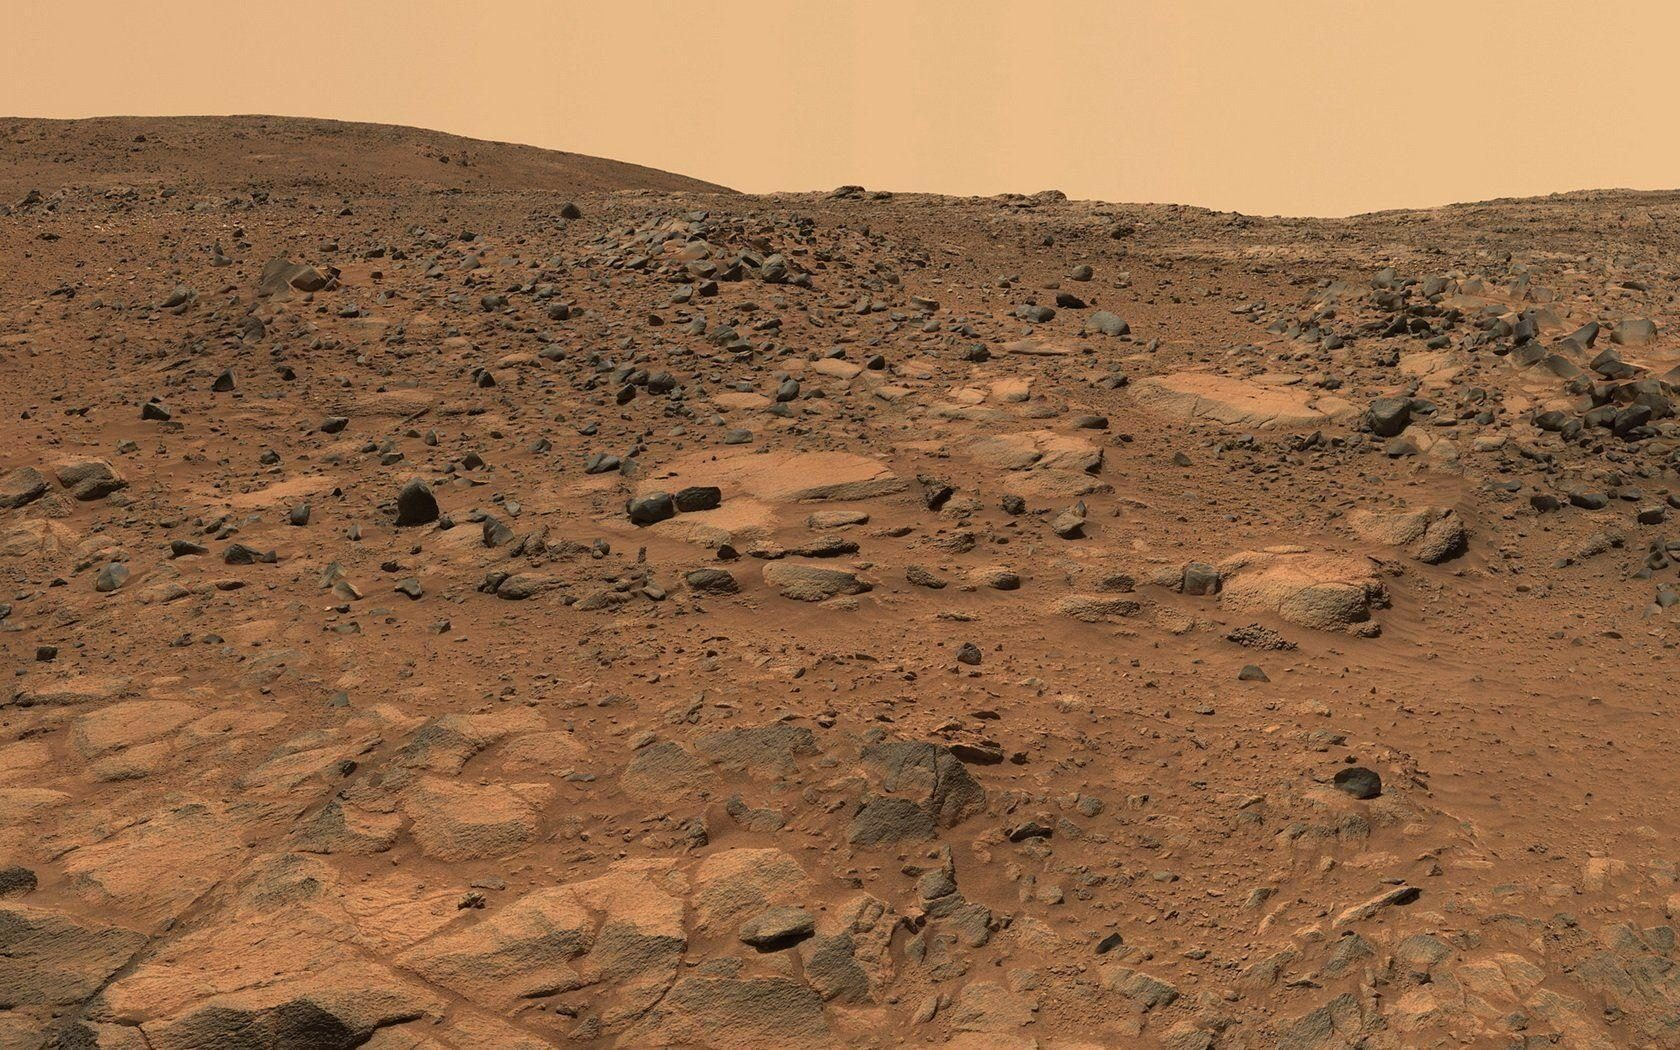
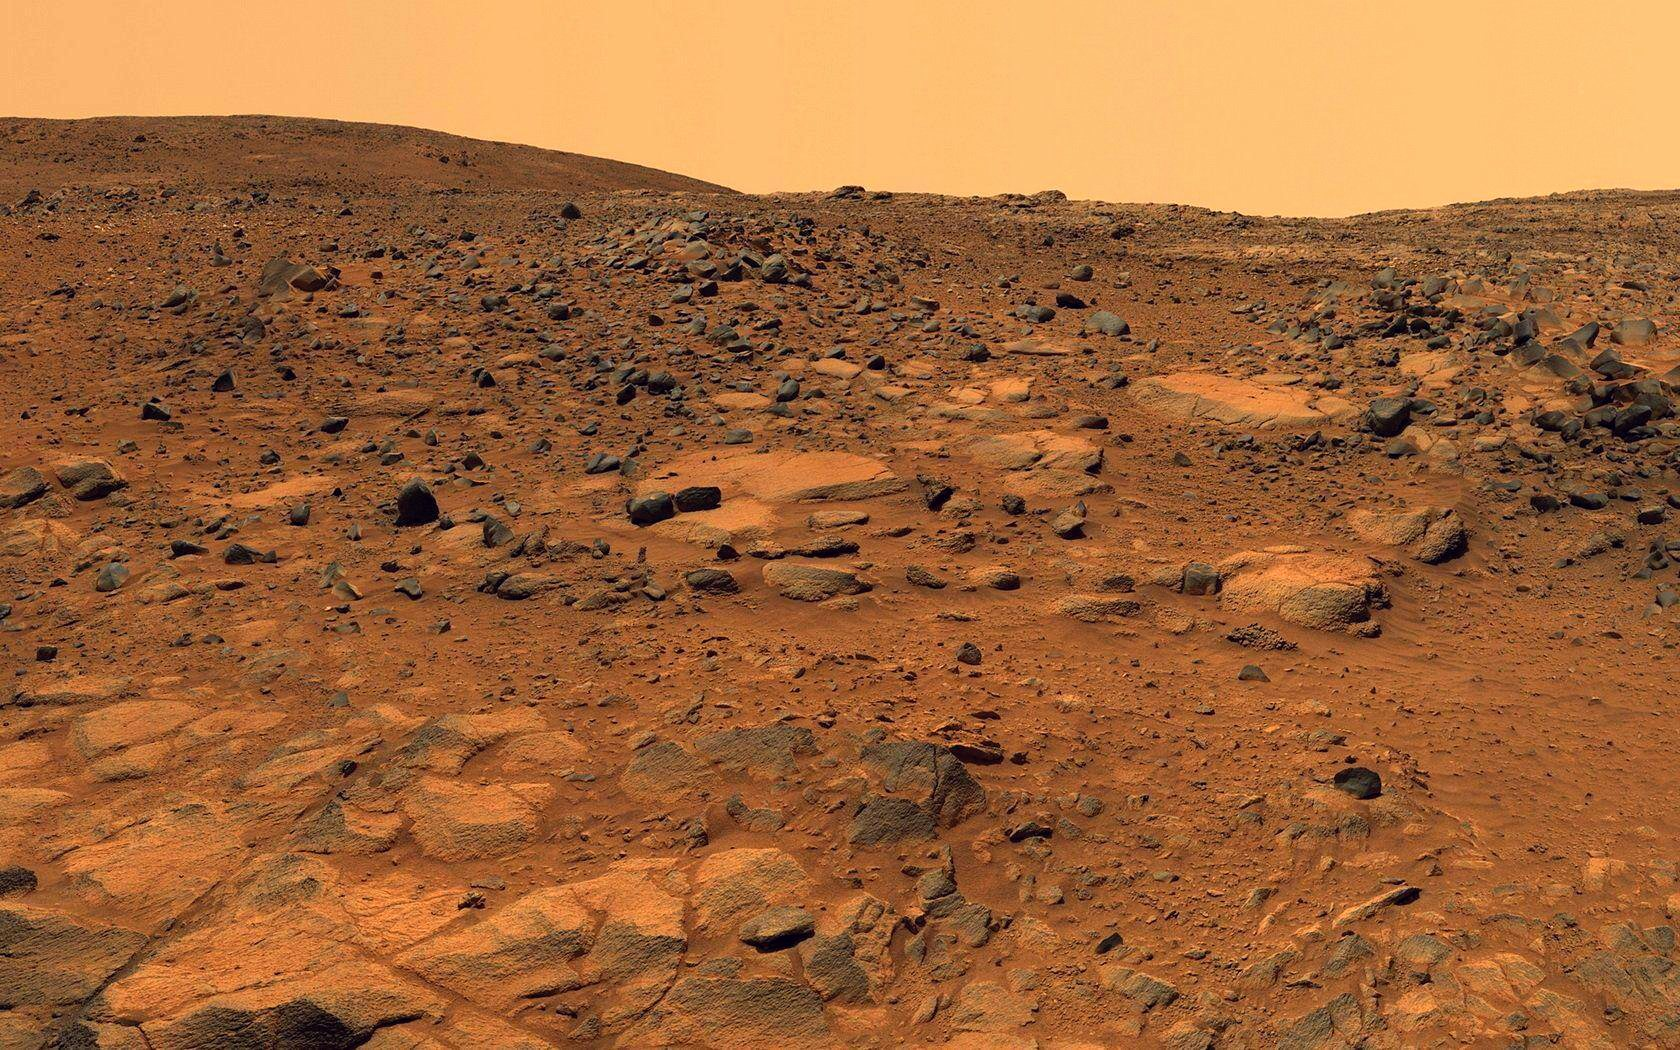
New typography system and a cooler, more vivid palette
Claude-Session: https://claude.ai/code/session_016kjMuUkgP8q2RCDEfRdovg

diff --git a/index.html b/index.html
@@ -15,33 +15,39 @@
 <meta name="claude:viewport-fit-sides" content="cover">
 <link rel="preconnect" href="https://fonts.googleapis.com">
 <link rel="preconnect" href="https://fonts.gstatic.com" crossorigin>
-<link rel="stylesheet" href="https://fonts.googleapis.com/css2?family=Outfit:wght@200;300;400&family=Instrument+Sans:wght@400;500&family=JetBrains+Mono:wght@400&display=swap">
+<link rel="stylesheet" href="https://fonts.googleapis.com/css2?family=Orbitron:wght@600;700;800&family=Space+Grotesk:wght@500;600&family=Inter:wght@400;500&family=IBM+Plex+Mono:wght@400;500&family=Vazirmatn:wght@400;500&display=swap">
 <style>
 /* Layout: a fixed WebGL stage (planet splits, camera falls through, lands on terrain) with scroll captions, then dark reading panels floating over the terrain. */
 :root{
-  --bg:#0b0908; --panel:rgba(17,12,10,.80); --panel-solid:#140f0d; --fg:#ece3dc; --muted:#a69689;
-  --rust:#d8693b; --dust:#e8a574; --ice:#8db2c6; --line:rgba(236,227,220,.13);
-  --display:'Outfit','Helvetica Neue',Arial,system-ui,sans-serif;
-  --body:'Instrument Sans',system-ui,-apple-system,'Segoe UI',sans-serif;
-  --mono:'JetBrains Mono',ui-monospace,Menlo,Consolas,monospace;
+  /* palette: deep navy space, hot Mars red, cyan telemetry */
+  --bg:#04060c; --panel:rgba(7,10,18,.78); --panel-solid:#0a0f1a; --field:#060912;
+  --fg:#eef2f8; --text2:#c5cfdf; --muted:#93a0b6; --line:rgba(190,215,255,.14);
+  --rust:#ff5233; --dust:#ff8a5e; --ice:#6fd3ff; --on-accent:#1a0805;
+  /* type: Orbitron hero, Space Grotesk headings, Inter body, IBM Plex Mono data; Vazirmatn covers Persian text */
+  --display:'Orbitron','Eurostile','Arial Black',system-ui,sans-serif;
+  --head:'Space Grotesk','Vazirmatn',system-ui,-apple-system,'Segoe UI',sans-serif;
+  --body:'Inter','Vazirmatn',system-ui,-apple-system,'Segoe UI',Roboto,sans-serif;
+  --mono:'IBM Plex Mono','Vazirmatn',ui-monospace,Menlo,Consolas,monospace;
+  /* scale */
+  --fs-hero:clamp(2.3rem,8.2vw,6rem); --fs-h2:clamp(1.65rem,3.8vw,2.6rem); --fs-body:1.0625rem; --fs-label:.72rem;
   color-scheme:dark;
 }
 *{box-sizing:border-box}
 html{scroll-behavior:smooth}
-body{margin:0;background:var(--bg);color:var(--fg);font:400 1.0625rem/1.65 var(--body);overflow-x:clip;-webkit-font-smoothing:antialiased}
+body{margin:0;background:var(--bg);color:var(--fg);font:400 var(--fs-body)/1.65 var(--body);overflow-x:clip;-webkit-font-smoothing:antialiased}
 .wrap{max-width:1100px;margin:0 auto;padding-left:max(16px,env(safe-area-inset-left,0px));padding-right:max(16px,env(safe-area-inset-right,0px))}
 #gl{position:fixed;inset:0;width:100%;height:100%;display:block;z-index:0}
-.no-gl body{background:radial-gradient(120% 90% at 50% 20%,#5a2e1e,#0b0908 70%)}
+.no-gl body{background:radial-gradient(120% 90% at 50% 20%,#4a1a1c,#04060c 70%)}
 .no-gl #gl{display:none}
 a{color:var(--dust)}
 a:focus-visible,button:focus-visible,input:focus-visible{outline:2px solid var(--ice);outline-offset:3px}
 
 /* nav */
-.nav{position:fixed;top:0;left:0;right:0;z-index:20;padding-top:env(safe-area-inset-top,0px);background:linear-gradient(to bottom,rgba(11,9,8,.85),rgba(11,9,8,0))}
+.nav{position:fixed;top:0;left:0;right:0;z-index:20;padding-top:env(safe-area-inset-top,0px);background:linear-gradient(to bottom,rgba(4,6,12,.85),rgba(4,6,12,0))}
 .nav .wrap{display:flex;align-items:center;justify-content:space-between;gap:16px;height:60px}
-.brand{font:300 .85rem/1 var(--display);letter-spacing:.32em;color:var(--fg);text-decoration:none}
+.brand{font:700 .8rem/1 var(--display);letter-spacing:.26em;color:var(--fg);text-decoration:none}
 .nav nav{display:flex;gap:22px}
-.nav nav a{font:400 .72rem/1 var(--mono);letter-spacing:.14em;text-transform:uppercase;color:var(--muted);text-decoration:none}
+.nav nav a{font:500 var(--fs-label)/1 var(--mono);letter-spacing:.14em;text-transform:uppercase;color:var(--muted);text-decoration:none}
 .nav nav a:hover{color:var(--fg)}
 @media(max-width:640px){.nav nav a:not(:last-child){display:none}}
 
@@ -49,11 +55,11 @@ a:focus-visible,button:focus-visible,input:focus-visible{outline:2px solid var(-
 .scene{position:relative;z-index:1}
 .cap{height:100vh;display:flex;align-items:flex-end;padding-bottom:13vh}
 .cap .wrap{width:100%}
-.cap p{max-width:34rem;margin:14px 0 0;color:#d9cdc4;text-shadow:0 1px 14px rgba(0,0,0,.8)}
+.cap p{max-width:34rem;margin:14px 0 0;color:var(--text2);text-shadow:0 1px 14px rgba(0,0,0,.85)}
 .eyebrow{font:400 .74rem/1.4 var(--mono);letter-spacing:.16em;text-transform:uppercase;color:var(--dust)}
-h1{font:200 clamp(2.6rem,9.5vw,7rem)/1 var(--display);letter-spacing:.14em;margin:14px 0 0;text-shadow:0 2px 30px rgba(0,0,0,.6)}
-h1 span{display:block;color:var(--rust);font-weight:300}
-h2{font:300 clamp(1.7rem,4.2vw,2.8rem)/1.15 var(--display);letter-spacing:.01em;margin:0;text-wrap:balance;text-shadow:0 2px 24px rgba(0,0,0,.6)}
+h1{font:700 var(--fs-hero)/1.02 var(--display);letter-spacing:.08em;text-transform:uppercase;margin:14px 0 0;text-shadow:0 2px 30px rgba(0,0,0,.6)}
+h1 span{display:block;color:var(--rust);font-weight:800;text-shadow:0 0 42px rgba(255,82,51,.5),0 2px 30px rgba(0,0,0,.6)}
+h2{font:600 var(--fs-h2)/1.12 var(--head);letter-spacing:-.012em;margin:0;text-wrap:balance;text-shadow:0 2px 24px rgba(0,0,0,.6)}
 .cue{margin-top:30px;font:400 .72rem/1 var(--mono);letter-spacing:.16em;text-transform:uppercase;color:var(--muted);display:flex;align-items:center;gap:12px}
 .cue i{display:block;width:1px;height:34px;background:linear-gradient(var(--dust),transparent)}
 
@@ -61,9 +67,11 @@ h2{font:300 clamp(1.7rem,4.2vw,2.8rem)/1.15 var(--display);letter-spacing:.01em;
 .content{position:relative;z-index:2;padding-bottom:max(40px,env(safe-area-inset-bottom,0px))}
 .stack{display:flex;flex-direction:column;gap:clamp(40px,12vh,130px)}
 .sheet{background:var(--panel);-webkit-backdrop-filter:blur(14px);backdrop-filter:blur(14px);border:1px solid var(--line);border-radius:6px;padding:clamp(20px,4.5vw,48px)}
+.sheet{position:relative}
+.sheet::before{content:"";position:absolute;left:-1px;right:-1px;top:-1px;height:1px;background:linear-gradient(90deg,var(--rust),rgba(255,82,51,0) 55%)}
 .sheet h2{text-shadow:none;margin-bottom:12px}
 .sheet h3{font:400 .74rem/1.3 var(--mono);letter-spacing:.14em;text-transform:uppercase;color:var(--dust);margin:0 0 6px}
-.lead{max-width:40rem;color:#d3c7be;margin:0 0 28px}
+.lead{max-width:40rem;color:var(--text2);margin:0 0 28px}
 .cols{display:grid;grid-template-columns:1fr 1fr;gap:clamp(20px,4vw,48px)}
 .cols>*{min-width:0}
 @media(max-width:820px){.cols{grid-template-columns:1fr}}
@@ -73,7 +81,7 @@ h2{font:300 clamp(1.7rem,4.2vw,2.8rem)/1.15 var(--display);letter-spacing:.01em;
 /* stats */
 .stats{display:grid;grid-template-columns:repeat(auto-fit,minmax(210px,1fr));gap:1px;background:var(--line);border:1px solid var(--line)}
 .stat{background:var(--panel-solid);padding:20px 20px 18px}
-.stat b{display:block;font:300 clamp(1.6rem,3.2vw,2.2rem)/1.1 var(--display);color:var(--fg);font-variant-numeric:tabular-nums}
+.stat b{display:block;font:500 clamp(1.6rem,3.2vw,2.2rem)/1.1 var(--head);color:var(--fg);font-variant-numeric:tabular-nums}
 .stat b small{font-size:.5em;color:var(--dust);margin-left:.3em;letter-spacing:.04em}
 .stat span{display:block;margin-top:8px;color:var(--muted);font-size:.92rem;line-height:1.45}
 
@@ -81,15 +89,15 @@ h2{font:300 clamp(1.7rem,4.2vw,2.8rem)/1.15 var(--display);letter-spacing:.01em;
 .fields{display:grid;grid-template-columns:1fr 1fr;gap:14px}
 @media(max-width:480px){.fields{grid-template-columns:1fr}}
 label{display:block;font:400 .72rem/1 var(--mono);letter-spacing:.14em;text-transform:uppercase;color:var(--muted);margin-bottom:8px}
-input{width:100%;font:400 1.05rem var(--body);color:var(--fg);background:#0e0a09;border:1px solid var(--line);border-radius:4px;padding:12px 14px}
+input{width:100%;font:400 1.05rem var(--body);color:var(--fg);background:var(--field);border:1px solid var(--line);border-radius:4px;padding:12px 14px}
 .out{margin-top:22px;display:grid;gap:14px}
 .out div{border-left:2px solid var(--rust);padding-left:14px}
-.out b{display:block;font:300 clamp(1.6rem,3.4vw,2.3rem)/1.15 var(--display);font-variant-numeric:tabular-nums}
+.out b{display:block;font:500 clamp(1.6rem,3.4vw,2.3rem)/1.15 var(--head);font-variant-numeric:tabular-nums}
 .out span{color:var(--muted);font-size:.95rem}
 
 /* orbit */
 .orbit{position:relative}
-#orbit{width:100%;aspect-ratio:1.45;display:block;background:radial-gradient(circle at 50% 50%,#1a1210,#0d0a09 70%);border:1px solid var(--line);border-radius:4px}
+#orbit{width:100%;aspect-ratio:1.45;display:block;background:radial-gradient(circle at 50% 50%,#101a2c,#05080f 70%);border:1px solid var(--line);border-radius:4px}
 .orbit-bar{display:flex;flex-wrap:wrap;gap:10px 22px;align-items:center;justify-content:space-between;margin-top:12px}
 .counter{font:400 .8rem/1.4 var(--mono);color:var(--muted);font-variant-numeric:tabular-nums}
 .counter b{color:var(--fg);font-weight:500}
@@ -99,12 +107,12 @@ button:hover{border-color:var(--dust);color:var(--dust)}
 /* composition */
 .comp{display:grid;gap:18px}
 .comp-row .name{display:flex;justify-content:space-between;font:400 .74rem/1 var(--mono);letter-spacing:.12em;text-transform:uppercase;color:var(--muted);margin-bottom:8px}
-.bar{display:flex;height:34px;border-radius:3px;overflow:hidden;gap:2px;background:#0e0a09}
+.bar{display:flex;height:34px;border-radius:3px;overflow:hidden;gap:2px;background:var(--field)}
 .bar i{display:block;min-width:2px}
 .legend{display:flex;flex-wrap:wrap;gap:8px 18px;margin-top:6px;font:400 .76rem/1.3 var(--mono);color:var(--muted)}
 .legend span{display:flex;align-items:center;gap:8px}
 .legend s{display:inline-block;width:10px;height:10px;border-radius:2px}
-.c-co2{background:#d8693b}.c-n2{background:#8db2c6}.c-o2{background:#e8c36f}.c-ar{background:#9a8cb8}.c-ot{background:#6f635b}
+.c-co2{background:#ff5233}.c-n2{background:#6fd3ff}.c-o2{background:#ffd166}.c-ar{background:#a78bfa}.c-ot{background:#5b6b86}
 
 /* temp chart */
 .chart{width:100%;height:auto;display:block}
@@ -115,7 +123,7 @@ button:hover{border-color:var(--dust);color:var(--dust)}
 /* bars */
 .hbars{display:grid;gap:12px}
 .hb{display:grid;grid-template-columns:minmax(96px,150px) 1fr auto;gap:12px;align-items:center;font-size:.95rem}
-.hb .track{height:14px;background:#0e0a09;border-radius:2px;overflow:hidden}
+.hb .track{height:14px;background:var(--field);border-radius:2px;overflow:hidden}
 .hb .track i{display:block;height:100%}
 .hb em{font:400 .8rem var(--mono);font-style:normal;color:var(--muted);font-variant-numeric:tabular-nums}
 @media(max-width:480px){.hb{grid-template-columns:1fr auto}.hb .track{grid-column:1/-1;order:3}}
@@ -124,19 +132,19 @@ button:hover{border-color:var(--dust);color:var(--dust)}
 .dl{display:grid;gap:0;border-top:1px solid var(--line)}
 .dl div{display:grid;grid-template-columns:minmax(110px,170px) 1fr;gap:6px 24px;padding:18px 0;border-bottom:1px solid var(--line)}
 .dl dt{font:400 .76rem/1.4 var(--mono);letter-spacing:.12em;text-transform:uppercase;color:var(--dust)}
-.dl dd{margin:0;color:#d9cdc4}
+.dl dd{margin:0;color:var(--text2)}
 @media(max-width:560px){.dl div{grid-template-columns:1fr}}
 
 /* timeline */
 .tl{list-style:none;margin:0;padding:0;border-left:1px solid var(--line)}
 .tl li{display:grid;grid-template-columns:78px 1fr;gap:6px 18px;padding:0 0 22px 22px;position:relative}
-.tl li::before{content:"";position:absolute;left:-4px;top:.55em;width:7px;height:7px;border-radius:50%;background:var(--rust)}
+.tl li::before{content:"";position:absolute;left:-4px;top:.55em;width:7px;height:7px;border-radius:50%;background:var(--rust);box-shadow:0 0 10px rgba(255,82,51,.7)}
 .tl b{font:400 .82rem/1.6 var(--mono);color:var(--dust)}
-.tl span{color:#d9cdc4}
+.tl span{color:var(--text2)}
 
 /* creator */
 .maker{display:flex;flex-direction:column;gap:6px}
-.name-big{font:200 clamp(2.2rem,6.5vw,4.2rem)/1.05 var(--display);letter-spacing:.04em;margin:0}
+.name-big{font:600 clamp(2.1rem,6vw,3.8rem)/1.05 var(--head);letter-spacing:-.01em;margin:0}
 .role{font:400 .78rem/1.4 var(--mono);letter-spacing:.18em;text-transform:uppercase;color:var(--muted)}
 .links{display:flex;flex-wrap:wrap;gap:10px 32px;margin-top:22px}
 .links a{font:400 .95rem/1.4 var(--mono);color:var(--fg);text-decoration:none;border-bottom:1px solid var(--line);padding-bottom:3px;overflow-wrap:anywhere}
@@ -147,8 +155,8 @@ footer li{margin:4px 0}
 
 
 /* surface photo layer: fades in when the camera lands */
-#ground{position:fixed;inset:0;z-index:0;opacity:0;visibility:hidden;background:#8a6444 url(img/surface.jpg) center 62%/cover no-repeat;transform-origin:50% 70%;will-change:opacity,transform;pointer-events:none}
-#ground::after{content:"";position:absolute;inset:0;background:linear-gradient(to top,rgba(11,9,8,.78),rgba(11,9,8,.18) 55%,rgba(11,9,8,.05))}
+#ground{position:fixed;inset:0;z-index:0;opacity:0;visibility:hidden;background:#2a1418 url(img/surface.jpg) center 62%/cover no-repeat;transform-origin:50% 70%;will-change:opacity,transform;pointer-events:none}
+#ground::after{content:"";position:absolute;inset:0;background:linear-gradient(to top,rgba(4,6,12,.82),rgba(4,6,12,.2) 55%,rgba(4,6,12,.04))}
 .no-gl #ground{opacity:1!important;visibility:visible!important;transform:none!important}
 .fig{margin:30px 0 0}
 .fig img{display:block;width:100%;height:auto;max-height:520px;object-fit:cover;border-radius:4px}
@@ -416,7 +424,7 @@ var tok=function(n){return css.getPropertyValue(n).trim()};
     el('rect',{x:sx(lo),y:y,width:sx(hi)-sx(lo),height:30,rx:3,fill:fill});
     el('text',{x:sx(lo),y:y+46,'text-anchor':'middle',class:'t-strong'},(lo<0?'−':'+')+Math.abs(lo));
     el('text',{x:sx(hi),y:y+46,'text-anchor':'middle',class:'t-strong'},(hi<0?'−':'+')+Math.abs(hi));
-    el('text',{x:sx(lo)+10,y:y+19,'text-anchor':'start',fill:'#1a0f0a',style:'fill:#1a0f0a;font-weight:500'},label);
+    el('text',{x:sx(lo)+10,y:y+19,'text-anchor':'start',fill:'#1a0805',style:'fill:#1a0805;font-weight:500'},label);
   }
   range(42,-133,27,tok('--rust'),'Mars');
   range(96,-89,57,tok('--ice'),'Earth records');
@@ -426,7 +434,7 @@ var tok=function(n){return css.getPropertyValue(n).trim()};
 (function(){
   var c=$('#orbit'),ctx=c.getContext('2d'),W=0,H=0,dpr=1;
   var days=0,running=!reduce,last=0;
-  var col={sun:'#f3b25e',earth:tok('--ice'),mars:tok('--rust'),ring:'rgba(236,227,220,.16)',text:tok('--muted')};
+  var col={sun:'#f3b25e',earth:tok('--ice'),mars:tok('--rust'),ring:'rgba(190,215,255,.18)',text:tok('--muted')};
   function size(){dpr=Math.min(devicePixelRatio||1,2);var r=c.getBoundingClientRect();W=r.width;H=r.height;c.width=Math.round(W*dpr);c.height=Math.round(H*dpr);draw()}
   function draw(){
     ctx.setTransform(dpr,0,0,dpr,0,0);ctx.clearRect(0,0,W,H);
@@ -463,7 +471,7 @@ renderer.outputEncoding=THREE.sRGBEncoding;
 renderer.setPixelRatio(Math.min(devicePixelRatio||1,innerWidth<700?1.5:2));
 
 var scene=new THREE.Scene();
-var SPACE=new THREE.Color(0x05060b),SKY=new THREE.Color(0xb98259);
+var SPACE=new THREE.Color(0x03050b),SKY=new THREE.Color(0x9a3524);
 scene.background=SPACE.clone();
 var camera=new THREE.PerspectiveCamera(50,1,.1,1200);
 
@@ -471,7 +479,7 @@ var camera=new THREE.PerspectiveCamera(50,1,.1,1200);
 var starGeo=new THREE.BufferGeometry(),sp=new Float32Array(2600*3);
 for(var i=0;i<2600;i++){var u=Math.random()*2-1,a=Math.random()*6.2832,r=Math.sqrt(1-u*u),d=300+Math.random()*300;sp[i*3]=r*Math.cos(a)*d;sp[i*3+1]=u*d;sp[i*3+2]=r*Math.sin(a)*d}
 starGeo.setAttribute('position',new THREE.BufferAttribute(sp,3));
-var starMat=new THREE.PointsMaterial({color:0xf0e6dc,size:1.5,sizeAttenuation:false,transparent:true,fog:false});
+var starMat=new THREE.PointsMaterial({color:0xe8f0ff,size:1.5,sizeAttenuation:false,transparent:true,fog:false});
 scene.add(new THREE.Points(starGeo,starMat));
 
 // drifting dust that reacts to the pointer
@@ -483,7 +491,7 @@ function sprite(){
 var DN=innerWidth<700?200:360,dpos=new Float32Array(DN*3),dvel=new Float32Array(DN*3);
 for(var i=0;i<DN;i++){dpos[i*3]=(Math.random()-.5)*34;dpos[i*3+1]=(Math.random()-.5)*20;dpos[i*3+2]=-14+Math.random()*30;dvel[i*3]=(Math.random()-.5)*.12;dvel[i*3+1]=(Math.random()-.5)*.06;dvel[i*3+2]=(Math.random()-.5)*.08}
 var dGeo=new THREE.BufferGeometry();dGeo.setAttribute('position',new THREE.BufferAttribute(dpos,3));
-var dMat=new THREE.PointsMaterial({map:sprite(),size:.11,color:0xffb98a,transparent:true,opacity:.65,depthWrite:false,blending:THREE.AdditiveBlending});
+var dMat=new THREE.PointsMaterial({map:sprite(),size:.11,color:0xff8a5e,transparent:true,opacity:.65,depthWrite:false,blending:THREE.AdditiveBlending});
 var dust=new THREE.Points(dGeo,dMat);dust.frustumCulled=false;scene.add(dust);
 
 // planet: a real photograph projected onto both halves of the sphere
